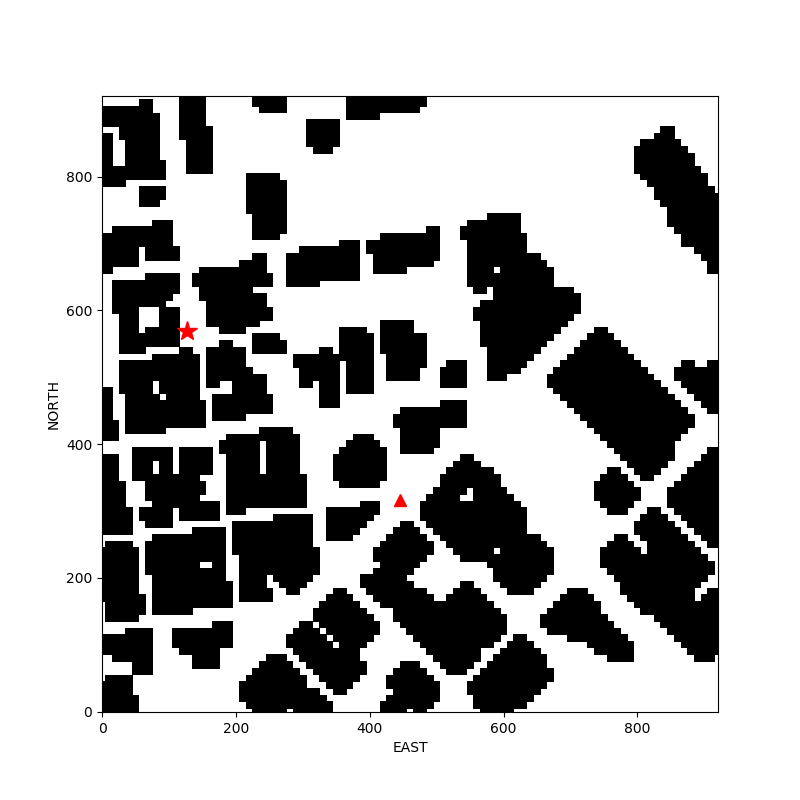
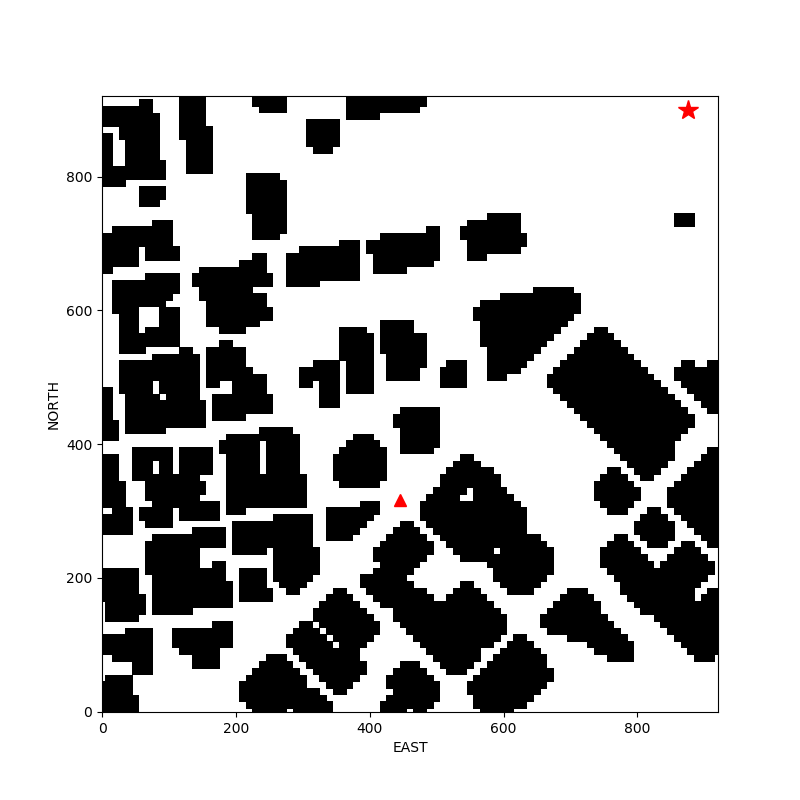
Update

diff --git a/planning_utils.py b/planning_utils.py
@@ -482,11 +482,11 @@ def plot_graph(data, grid, graph, start_position=None, goal_position=None,
     if start_position is not None:
         plt.plot(start_position[1] - east_offset,
                  start_position[0] - north_offset,
-                 'rx', markersize=12)
+                 'r^', markersize=8)
     if goal_position is not None:
         plt.plot(goal_position[1] - east_offset,
                  goal_position[0] - north_offset,
-                 'r*', markersize=12)
+                 'r*', markersize=15)
 
     plt.xlabel('EAST')
     plt.ylabel('NORTH')
